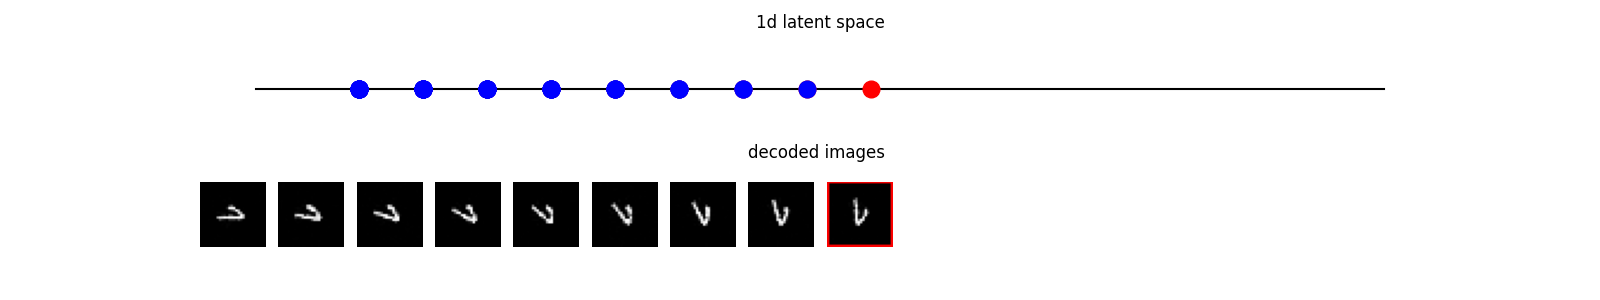
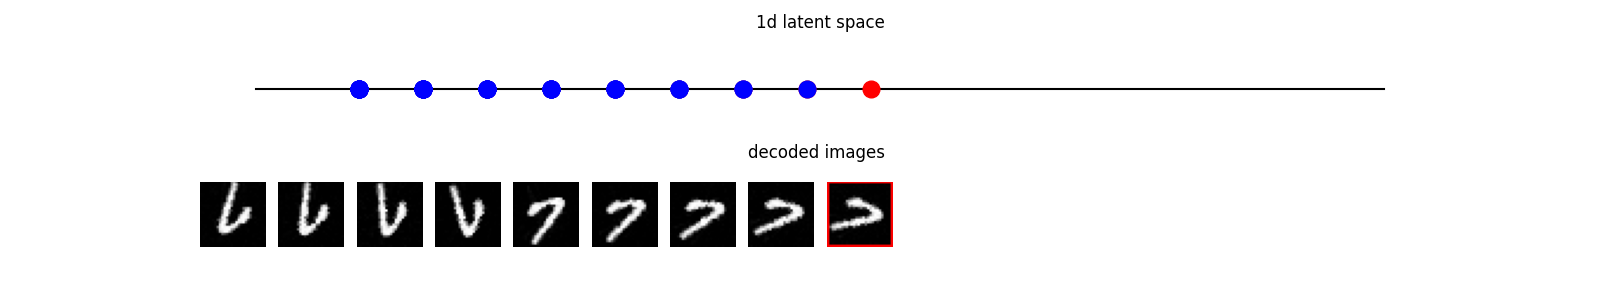
fix mnist dataloader

Changed region(s): [[0.1875, 0.6, 0.5625, 0.81], [0.125, 0.6, 0.1562, 0.78]]

diff --git a/loader/MNIST_dataset.py b/loader/MNIST_dataset.py
@@ -22,17 +22,14 @@ class RotatedShiftedMNIST(MNIST):
 
         assert type in ["rotate", "shift"]
 
-        # Dataset download and loading
-        self.root = root
-        if download:
-            self.download()
-        if not self._check_exists():
-            raise RuntimeError(
-                "Dataset not found." + " You can use download=True to download it"
-            )
-        data, targets = torch.load(
-            os.path.join(self.processed_folder, self.training_file)
+        super(RotatedShiftedMNIST, self).__init__(
+            root,
+            download=download,
         )
+
+        data = self.data
+        targets = self.targets
+
         data = (data.to(torch.float32) / 255).unsqueeze(1) # [data_size, 1, 28, 28]
 
         for idx, target in enumerate(targets):
@@ -54,7 +51,7 @@ class RotatedShiftedMNIST(MNIST):
         if type == 'rotate':
             num_rotate = 100
             for rot in [180*i/num_rotate for i in range(num_rotate)]:
-                transformed_data = transforms.functional.affine(img=data, angle=rot, translate=[0, 0], scale=0.5, shear=0)
+                transformed_data = transforms.functional.affine(img=data, angle=rot, translate=[0, 0], scale=1., shear=0)
                 data_list.append(transformed_data)
         elif type == 'shift':
             shift_range=[-10,10]
@@ -97,11 +94,3 @@ class RotatedShiftedMNIST(MNIST):
         else:
             x = self.data[idx]
             return x
-        
-    @property
-    def raw_folder(self):
-        return os.path.join(self.root, "MNIST", "raw")
-
-    @property
-    def processed_folder(self):
-        return os.path.join(self.root, "MNIST", "processed")
